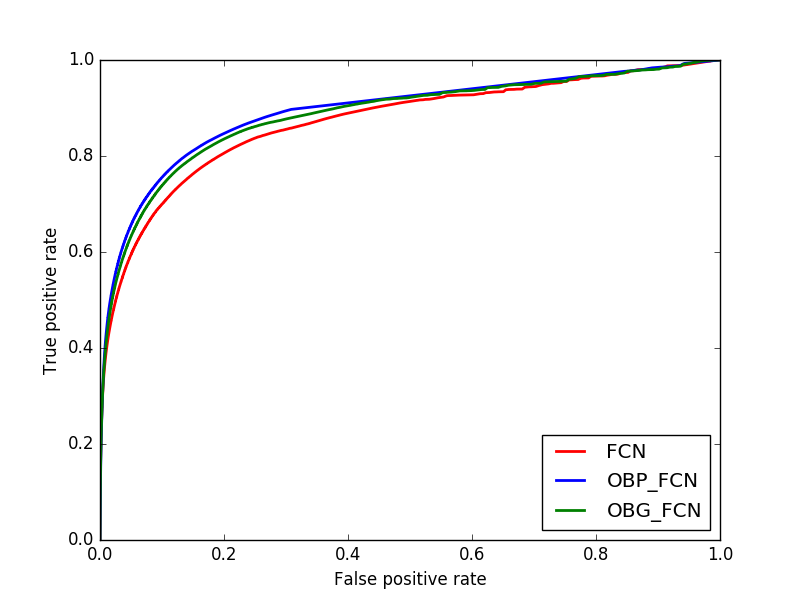
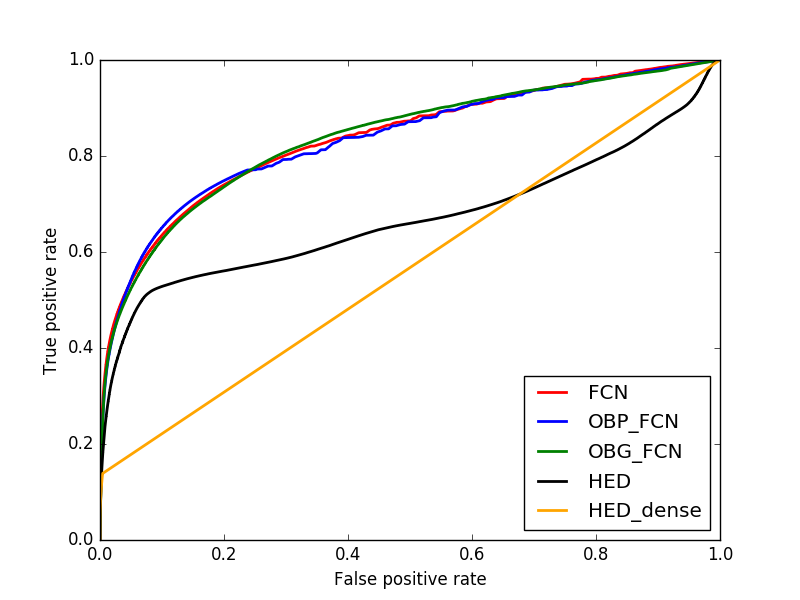
added HED and HED_dense to plot code

diff --git a/python/evaluate_all.py b/python/evaluate_all.py
@@ -14,6 +14,8 @@ from tqdm import tqdm
 import utility.util_data as util_data
 import matplotlib.pyplot as plt
 import matplotlib.patches as mpatches
+import matplotlib.pylab as pylab
+
 from sklearn.metrics import roc_curve
 import configparser
 
@@ -24,6 +26,14 @@ DX = 0.01
 #########################################
 #function definitions
 #########################################
+def get_outputs(seg):
+    contour = utility.listSegToContours(seg, meta_test[1,:,:],
+        meta_test[0,:,:], ISOVALUE)
+    errs = utility.listAreaOverlapError(contour, contours_test)
+    thresh,ts = utility.cum_error_dist(errs,DX)
+    roc = roc_curve(np.ravel(Y_test),np.ravel(seg), pos_label=1)
+    return (contour,errs,thresh,roc)
+
 def contour_plot(x_test, C, extent, labels, colors, filename):
     '''
     function to plot contours on top of images
@@ -38,7 +48,7 @@ def contour_plot(x_test, C, extent, labels, colors, filename):
     '''
     N = len(labels)
     plt.figure()
-    fig_contour, ax_contour = plt.subplots(1,N)
+    fig_contour, ax_contour = plt.subplots(1,N,figsize=(20,8))
     plot_count = 0
     handles = []
     for j in range(0,len(C)):
@@ -46,7 +56,11 @@ def contour_plot(x_test, C, extent, labels, colors, filename):
         label = labels[j]
         color = colors[j]
         ax_contour[j].imshow(x_test[:,:,0], extent=extent,cmap='gray')
-        h, = ax_contour[j].plot(contour[:,0],contour[:,1], color=color,label=label)
+        if contour == []:
+            print "failed contour"
+            h, = ax_contour[j].plot([0],[0], color=color,label=label,linewidth=4)
+        else:
+            h, = ax_contour[j].plot(contour[:,0],contour[:,1], color=color,label=label,linewidth=4)
         handles.append(h)
 
     [a.set_axis_off() for a in ax_contour]
@@ -86,38 +100,43 @@ ROC = {}
 ############################
 # Load Model 1 (FCN)
 ############################
-FCN = load_model('./models/FCN.h5')
-FCN_seg = FCN.predict(X_test)
-FCN_seg = FCN_seg.reshape((Ntest,Pw,Ph))
-FCN_contour = utility.listSegToContours(FCN_seg, meta_test[1,:,:],
-    meta_test[0,:,:], ISOVALUE)
-FCN_errs = utility.listAreaOverlapError(FCN_contour, contours_test)
-FCN_thresh,ts = utility.cum_error_dist(FCN_errs,DX)
-ROC['FCN'] = roc_curve(np.ravel(Y_test),np.ravel(FCN_seg), pos_label=1)
+FCN_seg = np.load('./predictions/FCN.npy').reshape((Ntest,Pw,Ph))
+FCN_contour,FCN_errs,FCN_thresh,FCN_roc =\
+get_outputs(FCN_seg)
+ROC['FCN'] = FCN_roc
 
 ###########################
 # Load Model 2 (OBP_FCN)
 ###########################
-OBP_FCN = load_model('./models/OBP_FCN_output.h5')
-OBP_FCN_seg = OBP_FCN.predict(X_test)[:,:,:,1]
-OBP_FCN_seg = OBP_FCN_seg.reshape((Ntest,Pw,Ph))
-OBP_FCN_contour = utility.listSegToContours(OBP_FCN_seg, meta_test[1,:,:],
-    meta_test[0,:,:], ISOVALUE)
-OBP_FCN_errs = utility.listAreaOverlapError(OBP_FCN_contour, contours_test)
-OBP_FCN_thresh,ts = utility.cum_error_dist(OBP_FCN_errs,DX)
-ROC['OBP_FCN'] = roc_curve(np.ravel(Y_test),np.ravel(OBP_FCN_seg), pos_label=1)
+OBP_FCN_out = np.load('./predictions/OBP_FCN.npy')
+OBP_FCN_seg = OBP_FCN_out[:,:,:,1].reshape((Ntest,Pw,Ph))
+OBP_FCN_contour, OBP_FCN_errs, OBP_FCN_thresh, OBP_roc =\
+get_outputs(OBP_FCN_seg)
+ROC['OBP_FCN'] = OBP_roc
 
 #############################
 # Load Model 3 (OBP_FCN_full)
 #############################
-OBP_full = load_model('./models/OBP_full.h5')
-OBP_full_seg = OBP_full.predict(X_test)
-OBP_full_seg = OBP_full_seg.reshape((Ntest,Pw,Ph))
-OBP_full_contour = utility.listSegToContours(OBP_full_seg, meta_test[1,:,:],
-    meta_test[0,:,:], ISOVALUE)
-OBP_full_errs = utility.listAreaOverlapError(OBP_full_contour, contours_test)
-OBP_full_thresh,ts = utility.cum_error_dist(OBP_full_errs,DX)
-ROC['OBG_FCN'] = roc_curve(np.ravel(Y_test), np.ravel(OBP_full_seg),pos_label=1)
+OBP_full_seg = np.load('./predictions/OBG_FCN.npy').reshape((Ntest,Pw,Ph))
+OBP_full_contour, OBP_full_errs, OBP_full_thresh, OBP_roc =\
+get_outputs(OBP_full_seg)
+ROC['OBG_FCN'] = OBP_roc
+
+#############################
+# Load HED
+#############################
+HED_seg = np.load('./predictions/HED.npy')[0].reshape((Ntest,Pw,Ph))
+HED_contour, HED_errs, HED_thresh, HED_roc =\
+get_outputs(HED_seg)
+ROC['HED'] = HED_roc
+
+#############################
+# Load HED
+#############################
+HED_dense_seg = np.load('./predictions/HED_dense.npy').reshape((Ntest,Pw,Ph))
+HED_dense_contour, HED_dense_errs, HED_dense_thresh, HED_dense_roc =\
+get_outputs(HED_dense_seg)
+ROC['HED_dense'] = HED_dense_roc
 
 #############################
 # Level set
@@ -131,7 +150,7 @@ ls_thresh,ts = utility.cum_error_dist(ls_errs,DX)
 #Figure 1 segmentations
 plt.figure()
 Nplots = 4
-fig_seg, ax_seg = plt.subplots(Nplots,5)
+fig_seg, ax_seg = plt.subplots(Nplots,7,figsize=(35,25))
 for i in range(0,Nplots):
     ax_seg[i,0].imshow(X_test[i,:,:,0],cmap='gray')
     ax_seg[i,0].set_title('Image')
@@ -143,6 +162,10 @@ for i in range(0,Nplots):
     ax_seg[i,3].set_title('OBP_FCN')
     ax_seg[i,4].imshow(OBP_full_seg[i,:,:],cmap='gray')
     ax_seg[i,4].set_title('OBG_FCN')
+    ax_seg[i,5].imshow(HED_seg[i,:,:],cmap='gray')
+    ax_seg[i,5].set_title('HED')
+    ax_seg[i,6].imshow(HED_dense_seg[i,:,:],cmap='gray')
+    ax_seg[i,6].set_title('HED_dense')
     [a.set_axis_off() for a in ax_seg[i, :]]
     [a.set_axis_off() for a in ax_seg[:, i]]
 plt.axis('off')
@@ -151,9 +174,9 @@ plt.savefig('./plots/segs.png')
 
 #Figure 2 contours
 contours_to_plot = [contours_test[0], ls_test[0], FCN_contour[0],
-OBP_FCN_contour[0], OBP_full_contour[0]]
-labels = ['user','level set','FCN','OBP_FCN','OBG_FCN']
-colors = ['green','red','blue','yellow','magenta']
+OBP_FCN_contour[0], OBP_full_contour[0], HED_contour[0], HED_dense_contour[0]]
+labels = ['user','level set','FCN','OBP_FCN','OBG_FCN','HED','HED_dense']
+colors = ['green','red','blue','yellow','magenta','teal','orange']
 contour_plot(X_test[0],contours_to_plot,extents_test[0],labels,colors,'./plots/contours.png')
 
 #Figure 3, IOU
@@ -162,6 +185,8 @@ plt.plot(ts,ls_thresh, color='red', label='level set', linewidth=2)
 plt.plot(ts,FCN_thresh, color='blue', label='FCN', linewidth=2)
 plt.plot(ts,OBP_FCN_thresh, color='yellow', label='OBP_FCN', linewidth=2)
 plt.plot(ts,OBP_full_thresh, color='magenta', label='OBG_FCN', linewidth=2)
+plt.plot(ts,HED_thresh, color='black', label='HED', linewidth=2)
+plt.plot(ts,HED_dense_thresh, color='orange', label='HED_dense', linewidth=2)
 plt.xlabel('IOU error')
 plt.ylabel('Fraction of contours below error')
 plt.legend(loc='lower right')
@@ -172,6 +197,8 @@ plt.figure()
 plt.plot(ROC['FCN'][0],ROC['FCN'][1], color='red', label='FCN', linewidth=2)
 plt.plot(ROC['OBP_FCN'][0],ROC['OBP_FCN'][1], color='blue', label='OBP_FCN', linewidth=2)
 plt.plot(ROC['OBG_FCN'][0],ROC['OBG_FCN'][1], color='green', label='OBG_FCN', linewidth=2)
+plt.plot(ROC['HED'][0],ROC['HED'][1], color='black', label='HED', linewidth=2)
+plt.plot(ROC['HED_dense'][0],ROC['HED_dense'][1], color='orange', label='HED_dense', linewidth=2)
 plt.xlabel('False positive rate')
 plt.ylabel('True positive rate')
 plt.legend(loc='lower right')
